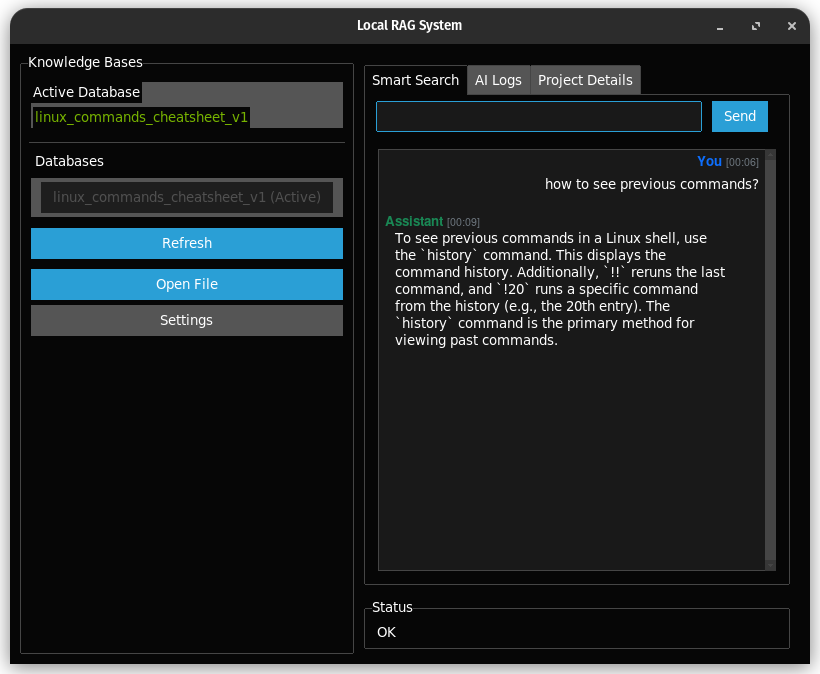
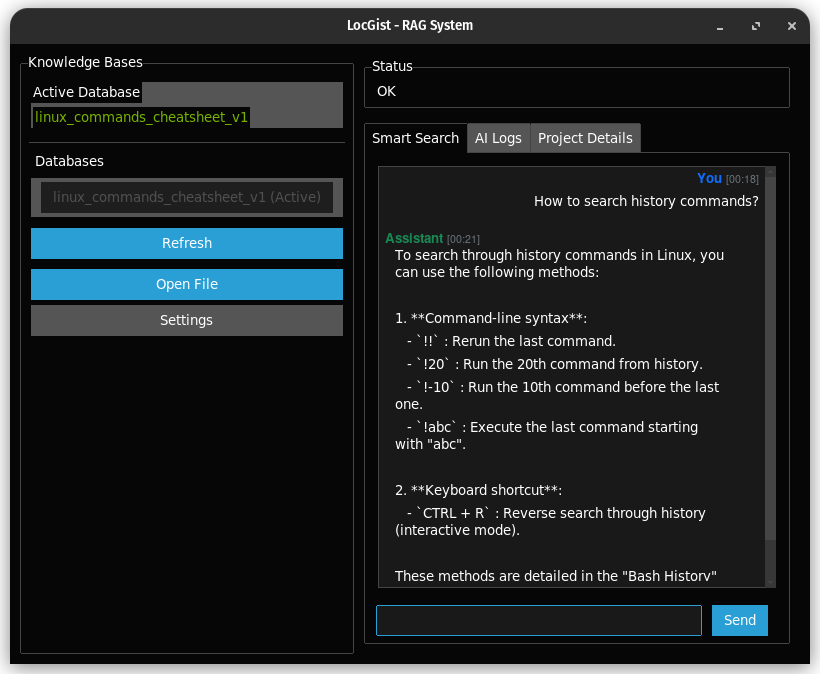
fix: Reorder chat box

diff --git a/loc_gist/ui/layout.py b/loc_gist/ui/layout.py
@@ -21,11 +21,12 @@ class Layout(ttk.Frame):
         main.grid_rowconfigure(1, weight=1)
         main.grid_columnconfigure(0, weight=1)
 
+        self.status_bar = StatusBar(parent=main)
+        self.status_bar.pack(expand=True, fill=tk.X, padx=10, pady=4)
+
         self.tab_window = TabWindow(parent=main, window=window, bootstyle="secondary")
         self.tab_window.pack(expand=True, fill=tk.BOTH, padx=10, pady=10)
 
-        self.status_bar = StatusBar(parent=main)
-        self.status_bar.pack(expand=True, fill=tk.X, padx=10, pady=4)
 
 class TabWindow(ttk.Notebook):
     def __init__(self, window: "Window", parent=None, **kwargs):
@@ -111,11 +112,6 @@ class ChatBox(ttk.Frame):
         super().__init__(parent)
         self.window = window
 
-        self.search_bar = ttk.Frame(self)
-        self.search_bar.pack(side=tk.TOP, expand=True, fill=tk.X, padx=10)
-        self.search_bar.grid_rowconfigure(0, weight=1)
-        self.search_bar.grid_columnconfigure(0, weight=1)
-
         self.text_box = ScrolledText(self, wrap=tk.WORD, state=tk.DISABLED)
         self.text_box.pack(expand=True, fill=tk.BOTH, padx=10, pady=10)
         # tags for chat bubbles
@@ -124,6 +120,13 @@ class ChatBox(ttk.Frame):
         self.text_box.text.tag_configure("user_msg", lmargin1=40, lmargin2=40, rmargin=10, spacing3=6, justify="right")
         self.text_box.text.tag_configure("bot_msg", lmargin1=10, lmargin2=10, rmargin=40, spacing3=6, justify="left")
         self.text_box.text.tag_configure("time", foreground="#6c757d", font=("Helvetica", 8))
+
+
+        self.search_bar = ttk.Frame(self)
+        self.search_bar.pack(side=tk.TOP, expand=True, fill=tk.X, padx=10)
+        self.search_bar.grid_rowconfigure(0, weight=1)
+        self.search_bar.grid_columnconfigure(0, weight=1)
+
 
         self.input = ttk.Entry(self.search_bar, bootstyle="primary")
         self.input.pack(expand=True, fill=tk.X, side=tk.LEFT)

diff --git a/loc_gist/ui/window.py b/loc_gist/ui/window.py
@@ -9,7 +9,7 @@ from .layout import Layout
 class Window(ttk.Window):
     def __init__(self, theme="cyborg"):
         super().__init__(themename=theme)
-        self.title("Local RAG System")
+        self.title("LocGist - RAG System")
         self.geometry("800x620")
         self.db_handler = DbHandler()
         self.layout = Layout(self)
